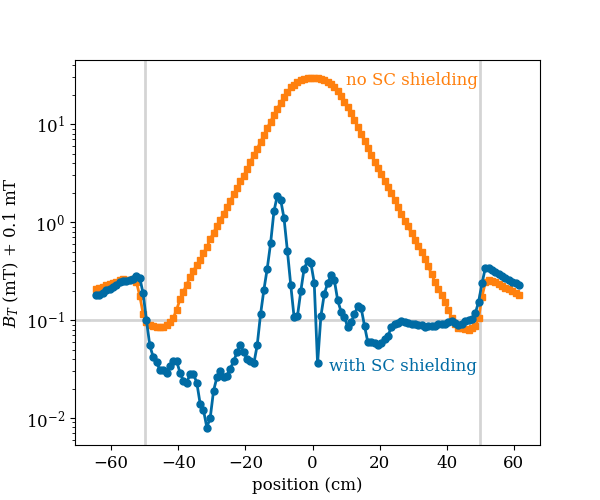
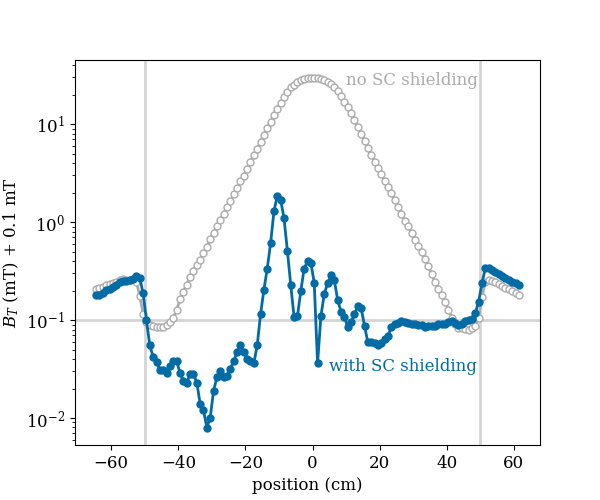
Color 'no shielding' in gray

Changed region(s): [[0.39, 0.15, 0.87, 0.69], [0.24, 0.39, 0.39, 0.66], [0.15, 0.54, 0.24, 0.63]]

diff --git a/pycloak/shielding_pub17/plot_shielding_BvsZ_vdg2layer.py b/pycloak/shielding_pub17/plot_shielding_BvsZ_vdg2layer.py
@@ -51,7 +51,7 @@ data_shield['pos'] = data_shield['pos'] - zcenter
 # ...
 
 # plot curves
-plt2=ax.plot( data_noshield['pos']/10, data_noshield['B1']+0.1, marker=mmark[1], color=mcol[1], markerfacecolor=fcol[1], label='no shield')
+plt2=ax.plot( data_noshield['pos']/10, data_noshield['B1']+0.1, marker=mmark[2], color=mcol[2], markerfacecolor=fcol[2], label='no shield')
 plt1=ax.plot( data_shield['pos']/10, data_shield['B1']+0.1, marker=mmark[0], color=mcol[0], markerfacecolor=fcol[0], label='shield')
 
 # plot cosmetics: set axis parameters
